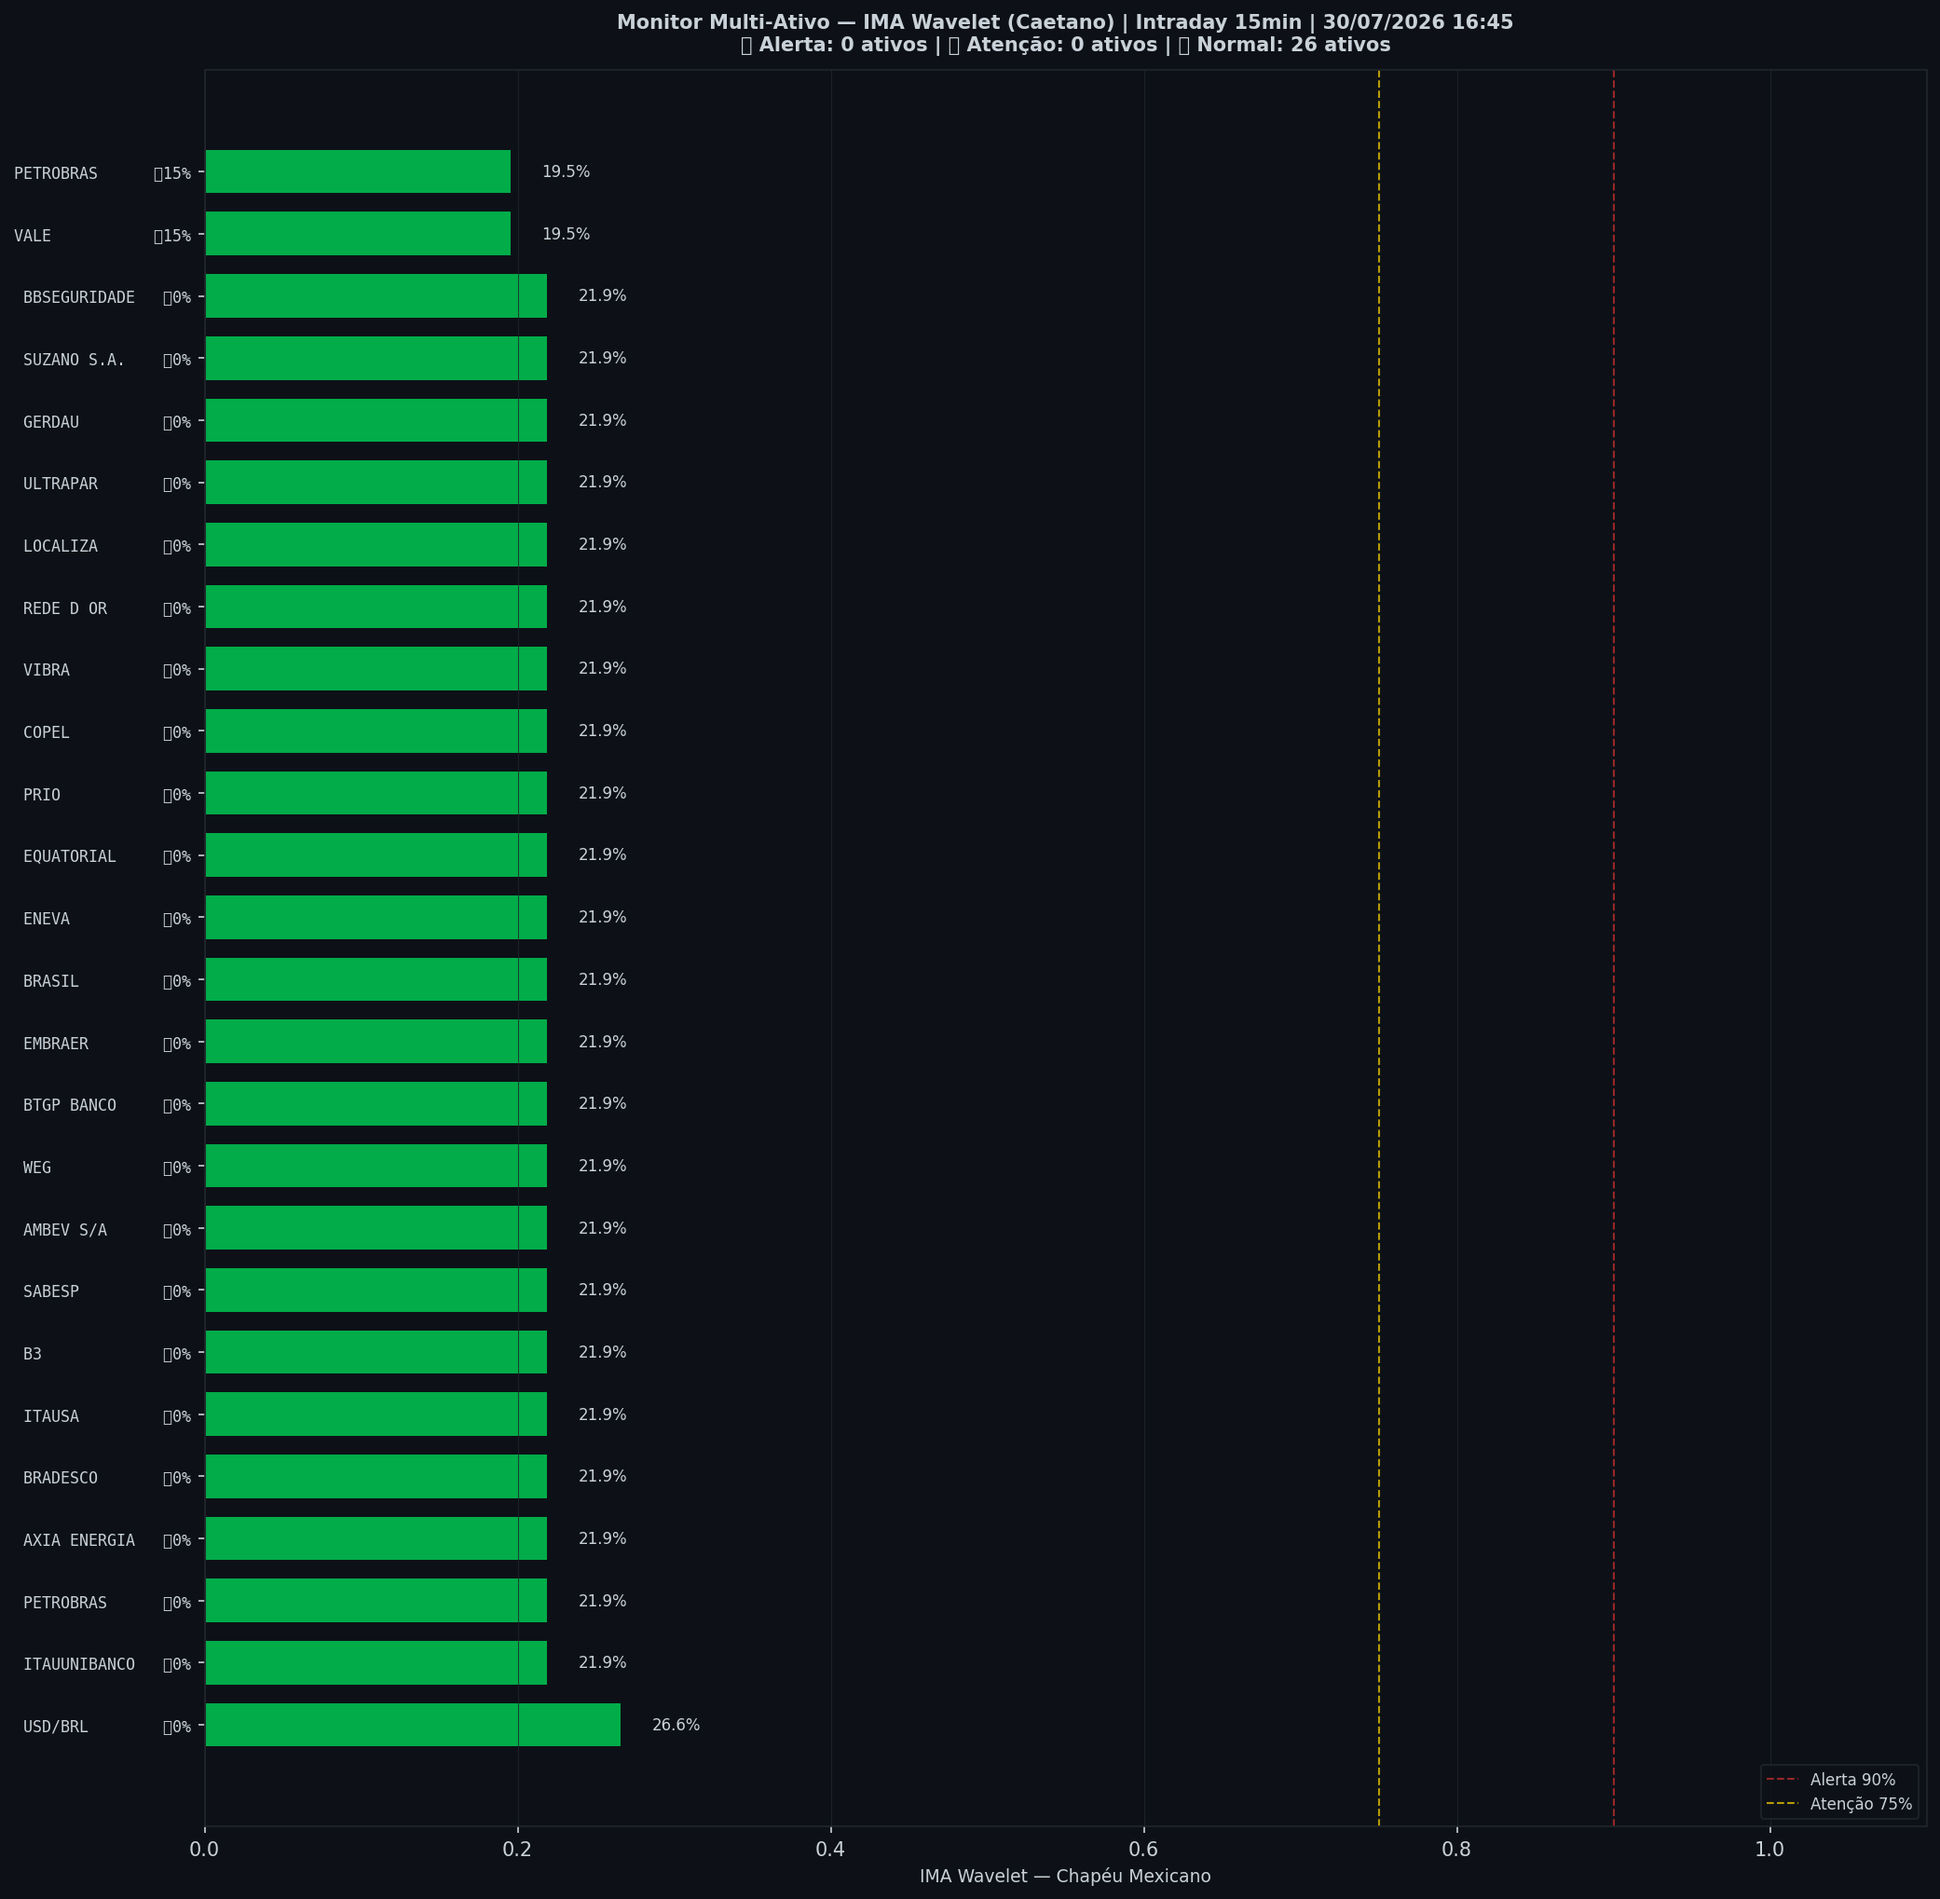
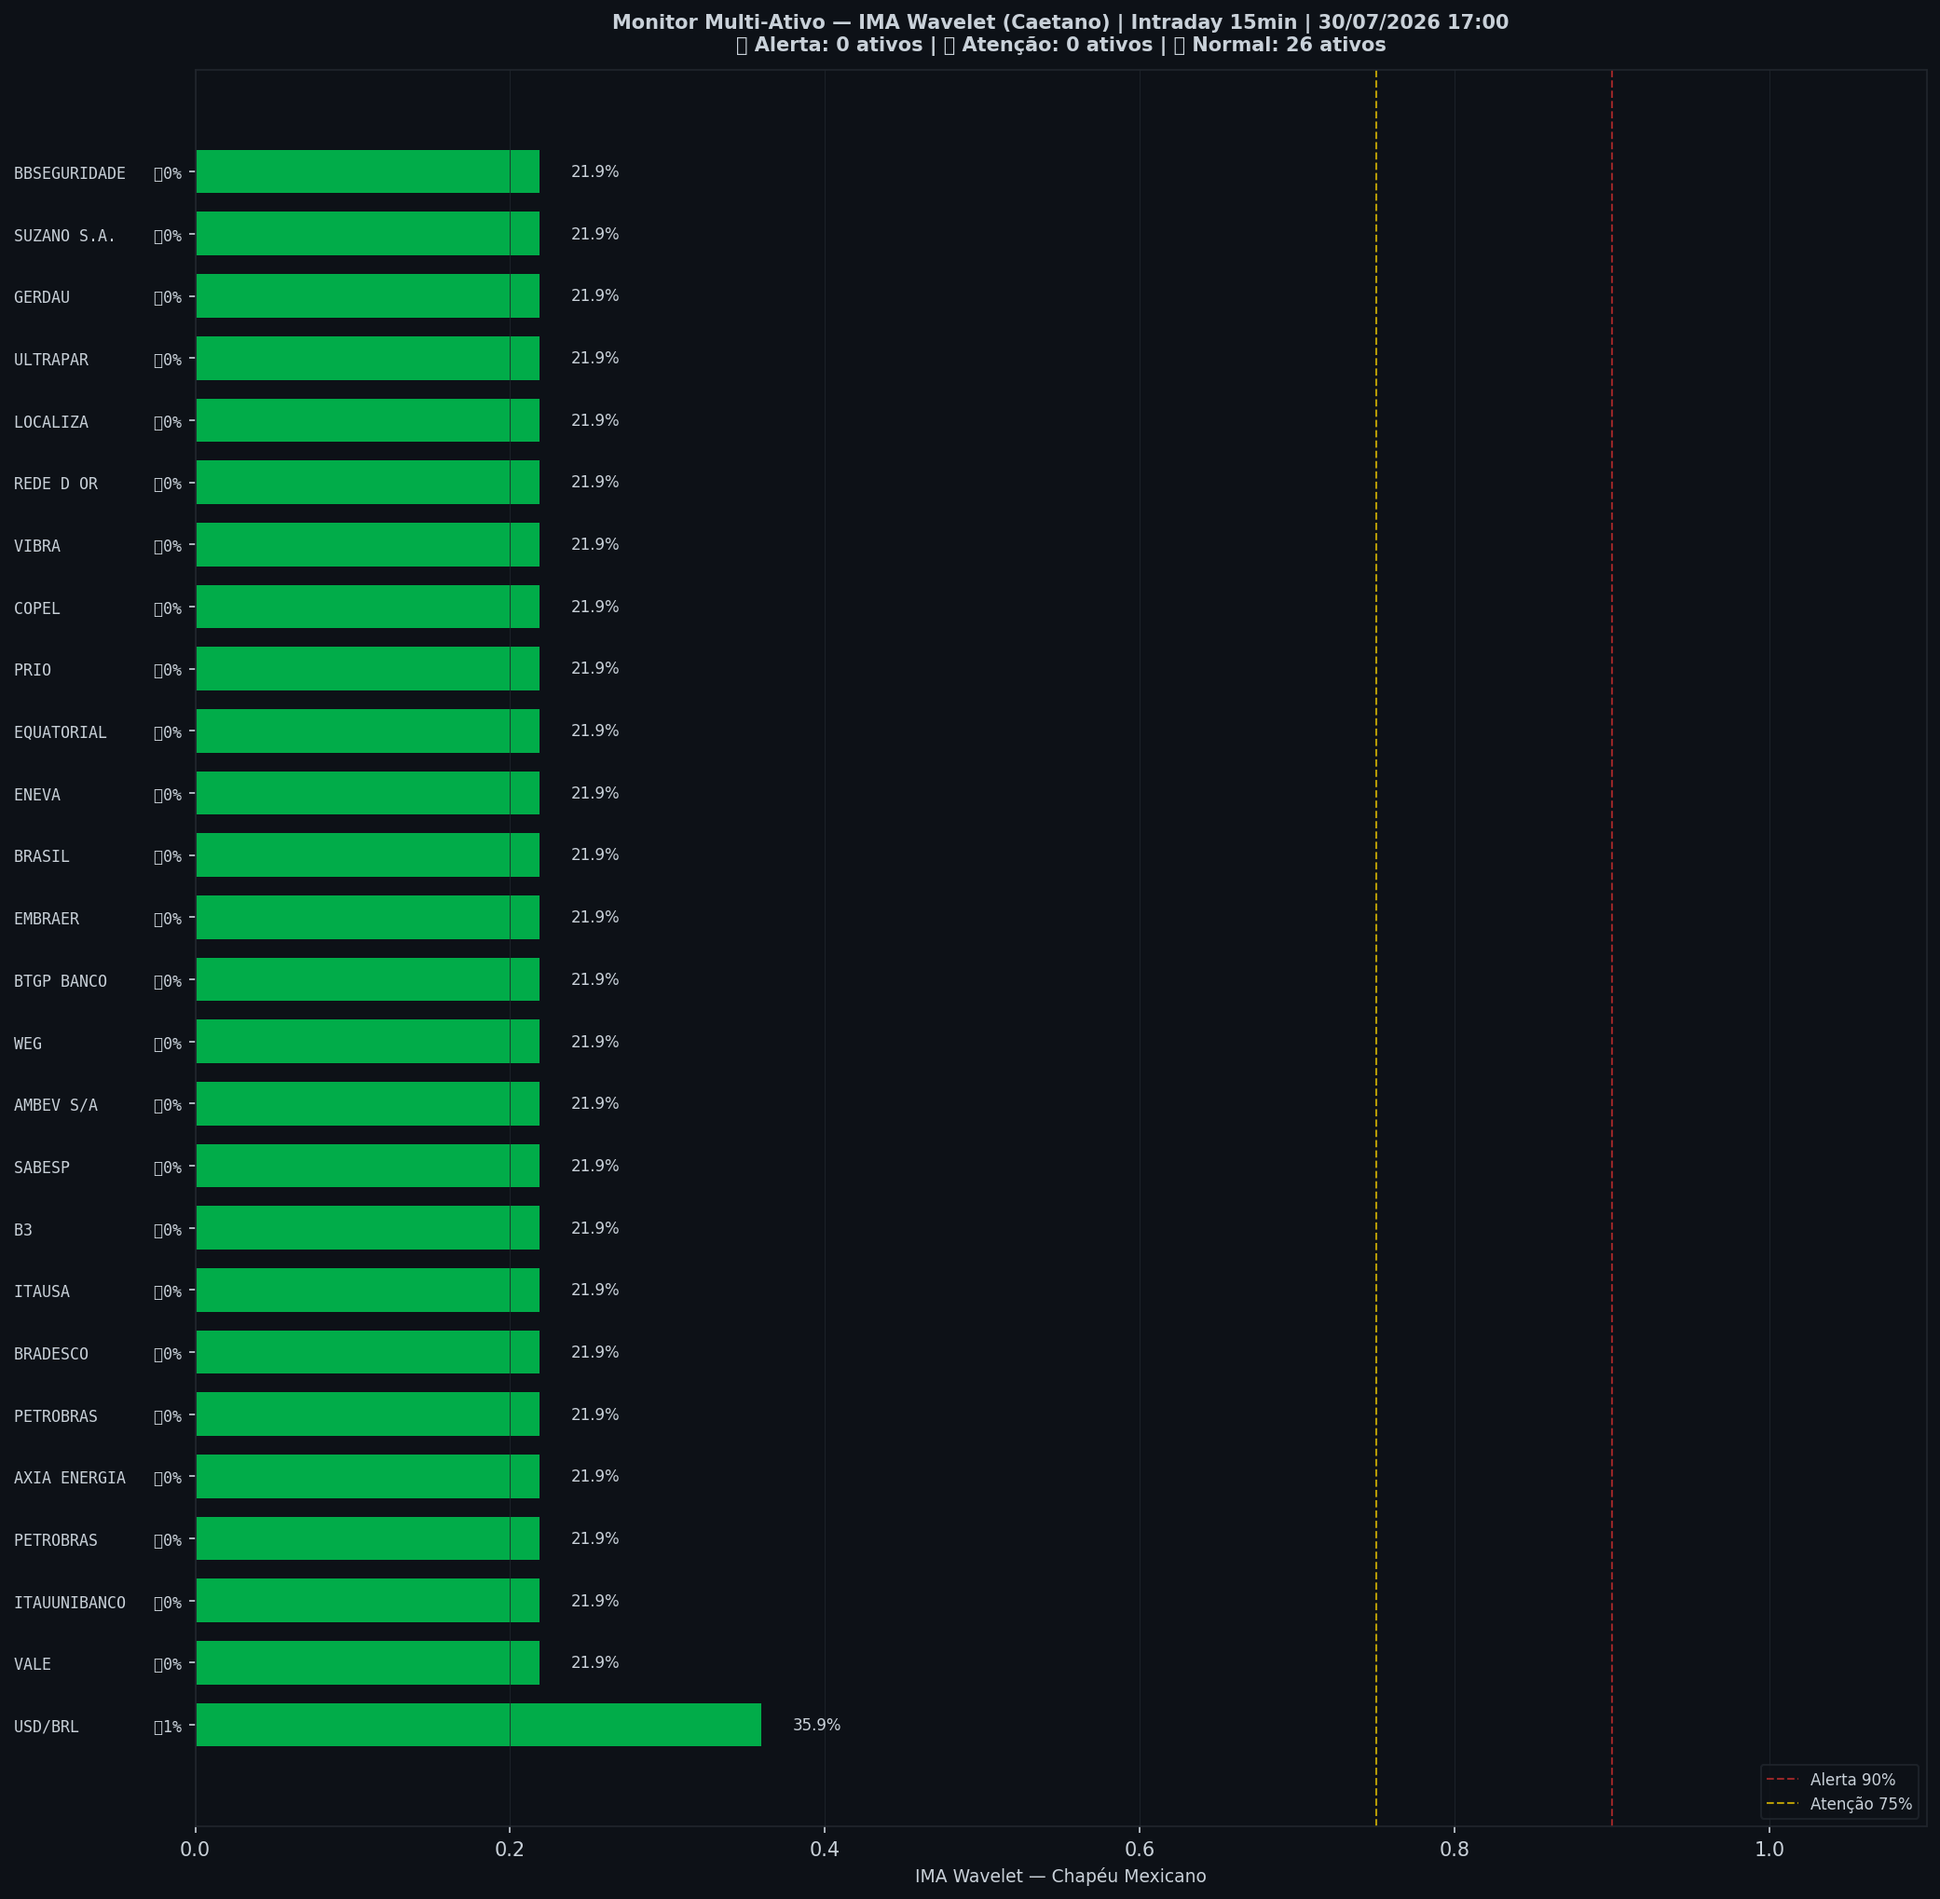
🤖 Auto: Sinal 30/07/2026 17:00

diff --git a/content/intraday/2026-07-30.md b/content/intraday/2026-07-30.md
@@ -1,20 +1,20 @@
 ---
-title: "🟢 Intraday 30/07/2026 16:00 BRT — VERDE"
+title: "🟢 Intraday 30/07/2026 16:15 BRT — VERDE"
 date: 2026-07-30
 tags: [intraday]
 ---
 
-> [!success] 🟢 **VERDE** — Risco 39% · ▼ -8 p.p. vs leitura anterior
-> `████████░░░░░░░░░░░░`
+> [!success] 🟢 **VERDE** — Risco 30% · ▼ -9 p.p. vs leitura anterior
+> `██████░░░░░░░░░░░░░░`
 > Mercado sem sinais relevantes de estresse.
 
 
 | Indicador | Valor |
 |---|---|
-| 🔴 ζ Crash — severidade da queda em curso | **39%** |
-| 🔵 ζ Entrada — estrutura de fundo | 1% |
+| 🔴 ζ Crash — severidade da queda em curso | **30%** |
+| 🔵 ζ Entrada — estrutura de fundo | 0% |
 | 🫧 LPPL DS-Confidence | 0% |
-| 📊 Ibovespa | 176.492 pts |
+| 📊 Ibovespa | 176.868 pts |
 
 ![Gráfico do sinal](../graficos/sinal_intraday.png)
 
@@ -22,6 +22,7 @@ tags: [intraday]
 
 | Data | Zona | Risco | IMA Crash | Entrada | LPPL |
 |---|---|---|---|---|---|
+| 2026-07-30 16:15 | 🟢 VERDE | **30%** | 30% | 0% | 0% |
 | 2026-07-30 16:00 | 🟢 VERDE | **39%** | 39% | 1% | 0% |
 | 2026-07-30 15:45 | 🟡 AMARELO | **47%** | 47% | 1% | 0% |
 | 2026-07-30 15:30 | 🟡 AMARELO | **56%** | 56% | 0% | 0% |
@@ -51,7 +52,6 @@ tags: [intraday]
 | 2026-07-29 16:30 | 🟢 VERDE | **3%** | 3% | 5% | 0% |
 | 2026-07-29 16:15 | 🟢 VERDE | **2%** | 2% | 3% | 0% |
 | 2026-07-29 16:00 | 🟢 VERDE | **4%** | 4% | 3% | 0% |
-| 2026-07-29 15:45 | 🟢 VERDE | **2%** | 2% | 6% | 0% |
 
 ## Monitor Multi-Ativo
 
@@ -59,10 +59,12 @@ tags: [intraday]
 
 | Zona | Ativo | Setor | IMA Crash | IMA Entrada |
 |---|---|---|---|---|
-| 🟢 | **USD/BRL** | Câmbio | 26.6% | 0.0% |
+| 🟢 | **USD/BRL** | Câmbio | 35.9% | 0.8% |
+| 🟢 | **VALE** | Mineração | 21.9% | 0.0% |
 | 🟢 | **ITAUUNIBANCO** | Financeiro | 21.9% | 0.0% |
 | 🟢 | **PETROBRAS** | Petróleo | 21.9% | 0.0% |
 | 🟢 | **AXIA ENERGIA** | Energia | 21.9% | 0.0% |
+| 🟢 | **PETROBRAS** | Petróleo | 21.9% | 0.0% |
 | 🟢 | **BRADESCO** | Financeiro | 21.9% | 0.0% |
 | 🟢 | **ITAUSA** | Financeiro | 21.9% | 0.0% |
 | 🟢 | **B3** | Financeiro | 21.9% | 0.0% |
@@ -83,12 +85,10 @@ tags: [intraday]
 | 🟢 | **GERDAU** | Siderurgia | 21.9% | 0.0% |
 | 🟢 | **SUZANO S.A.** | Papel/Celulose | 21.9% | 0.0% |
 | 🟢 | **BBSEGURIDADE** | Financeiro | 21.9% | 0.0% |
-| 🟢 | **VALE** | Mineração | 19.5% | 14.8% |
-| 🟢 | **PETROBRAS** | Petróleo | 19.5% | 14.8% |
 
 ![Monitor multi-ativo](../graficos/multi_intraday.png)
 
-*Página atualizada em 30/07/2026 16:45 BRT (leitura da barra de 2026-07-30 16:00 BRT).*
+*Página atualizada em 30/07/2026 17:00 BRT (leitura da barra de 2026-07-30 16:15 BRT).*
 
 > [!info]- Como interpretar (clique para expandir)
 > - **ζ Crash**: fração dos coeficientes wavelet acima do corte (Caetano & Yoneyama 2009). Escala absoluta: ζ=0,90 = 90% dos coeficientes anômalos — historicamente, quedas com ζ≥0,90 foram mais fundas e mais longas. **Mede a severidade do movimento em curso, não prevê o início da queda.**

diff --git a/content/index.md b/content/index.md
@@ -8,19 +8,19 @@ tags: [home]
 
 Monitoramento diário e intraday do Ibovespa — **IMA Wavelet** (Prof. Marco Antonio Leonel Caetano, ITA/INSPER) + **LPPL DS-Confidence** (Prof. Didier Sornette, ETH-Zurich).
 
-*Última atualização: 30/07/2026 16:45 BRT · ^BVSP · Intraday 15min · v4*
+*Última atualização: 30/07/2026 17:00 BRT · ^BVSP · Intraday 15min · v4*
 
-> [!success] 🟢 **VERDE** — Risco 39% · ▼ -8 p.p. vs leitura anterior
-> `████████░░░░░░░░░░░░`
+> [!success] 🟢 **VERDE** — Risco 30% · ▼ -9 p.p. vs leitura anterior
+> `██████░░░░░░░░░░░░░░`
 > Mercado sem sinais relevantes de estresse.
 
 
 | Indicador | Valor |
 |---|---|
-| 🔴 ζ Crash — severidade da queda em curso | **39%** |
-| 🔵 ζ Entrada — estrutura de fundo | 1% |
+| 🔴 ζ Crash — severidade da queda em curso | **30%** |
+| 🔵 ζ Entrada — estrutura de fundo | 0% |
 | 🫧 LPPL DS-Confidence | 0% |
-| 📊 Ibovespa | 176.492 pts |
+| 📊 Ibovespa | 176.868 pts |
 
 **Multi-ativo:** 0% em tensão (0🔴 0🟡 de 26 ativos)
 
@@ -32,7 +32,7 @@ Monitoramento diário e intraday do Ibovespa — **IMA Wavelet** (Prof. Marco An
 
 | Data | Zona | Risco | IMA | LPPL |
 |---|---|---|---|---|
-| [30 Jul 2026](diario/2026-07-30) | 🟢 VERDE | **39%** | 39% | 0% |
+| [30 Jul 2026](diario/2026-07-30) | 🟢 VERDE | **30%** | 30% | 0% |
 | [29 Jul 2026](diario/2026-07-29) | 🟢 VERDE | **2%** | 2% | 0% |
 
 ## Navegação

diff --git a/content/historico.md b/content/historico.md
@@ -7,6 +7,7 @@ tags: [historico]
 
 | Data | Modo | Zona | Risco | IMA | LPPL |
 |---|---|---|---|---|---|
+| 2026-07-30 16:15 | intraday | 🟢 VERDE | 30% | 30% | 0% |
 | 2026-07-30 16:00 | intraday | 🟢 VERDE | 39% | 39% | 0% |
 | 2026-07-30 15:45 | intraday | 🟡 AMARELO | 47% | 47% | 0% |
 | 2026-07-30 15:30 | intraday | 🟡 AMARELO | 56% | 56% | 0% |
